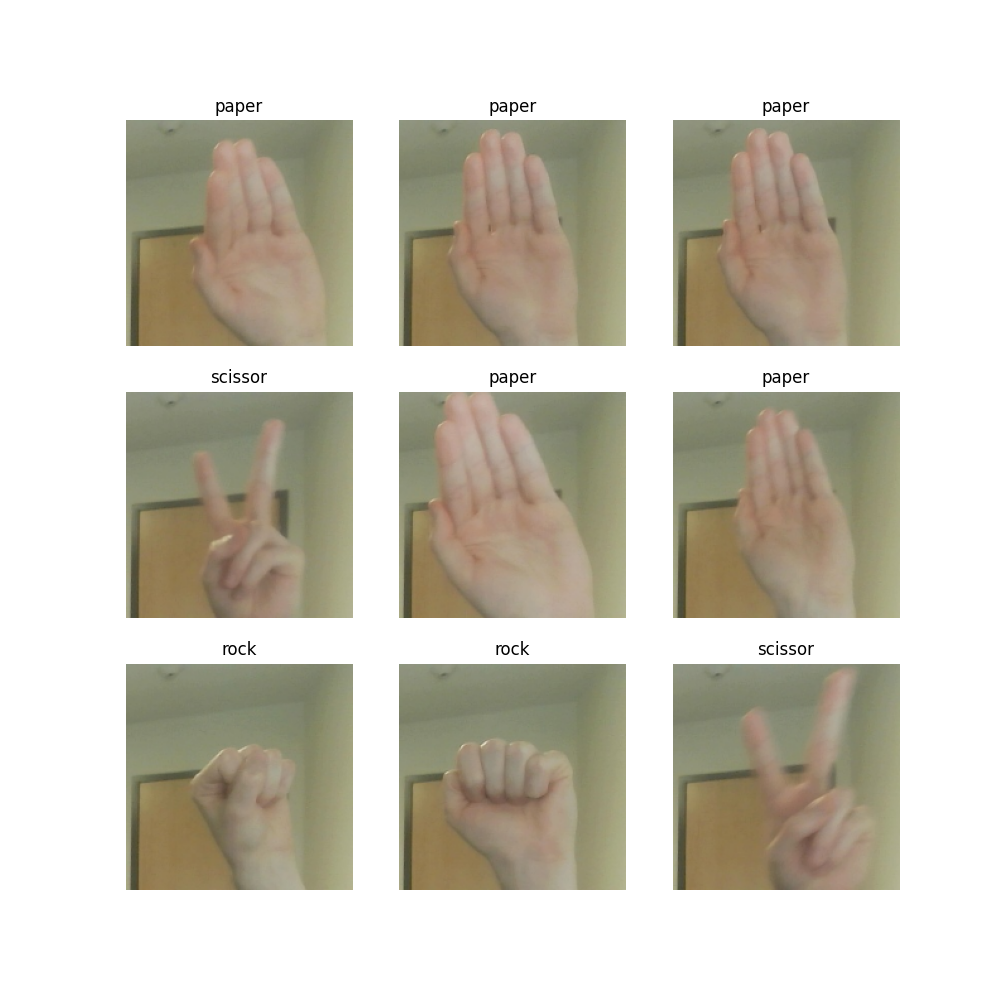
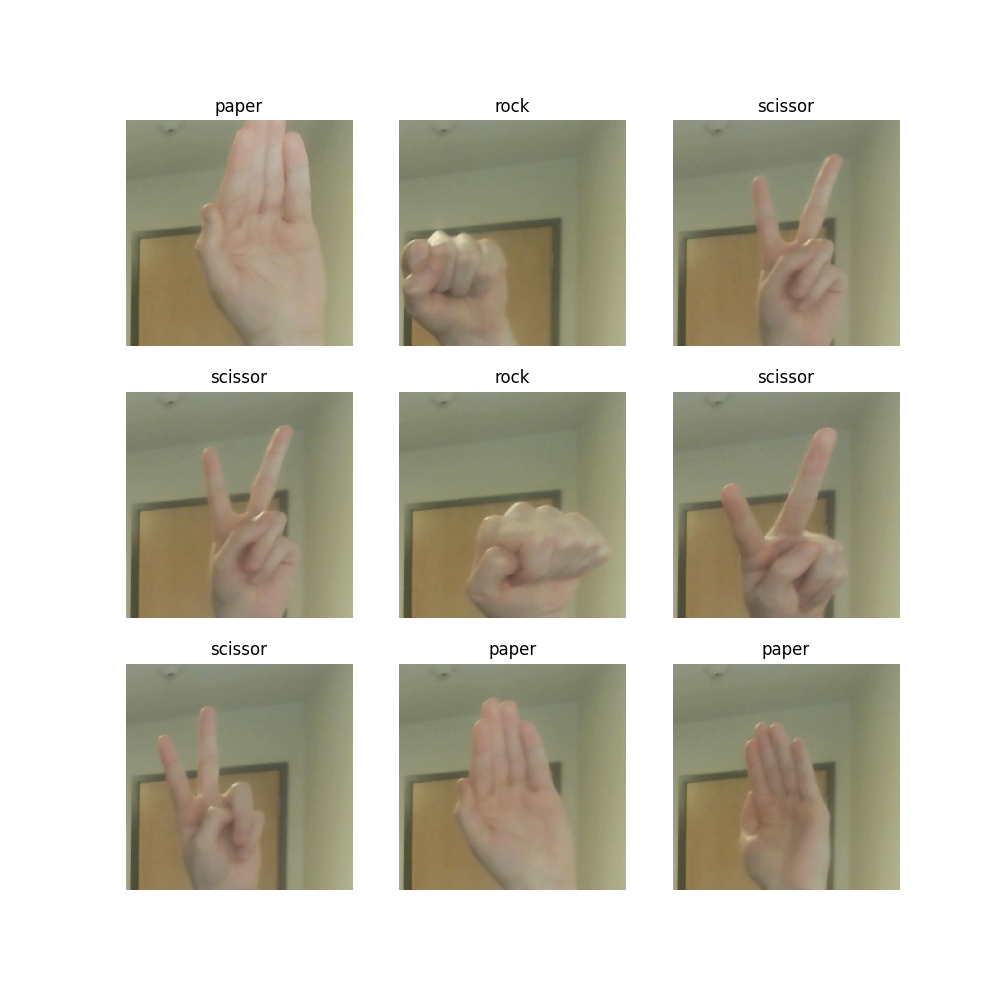
Sus that it had 100% confidence, but it successfully predicted the image I gave it!

diff --git a/model_creation.py b/model_creation.py
@@ -38,6 +38,8 @@ val_ds = tf.keras.preprocessing.image_dataset_from_directory(
 
 # Class name prints (since using "inferred" labels, these should be the subdirectories)
 print(train_ds.class_names)
+class_names = train_ds.class_names
+
 print(val_ds.class_names)
 
 # Configuring dataset for performance
@@ -78,6 +80,23 @@ history = model.fit(
 )
 
 # Visualization on first 9 images in the training set
-figure_creation.save_first_9(train_ds)
+figure_creation.save_first_9(train_ds, class_names)
 # Save results of model accuracies
 figure_creation.save_training_results(history, epochs)
+
+# Testing Classification here, delete in full build:
+hand_path = "paper1.jpg"
+
+img = keras.preprocessing.image.load_img(
+    hand_path, target_size=(180, 180)
+)
+img_array = keras.preprocessing.image.img_to_array(img)
+img_array = tf.expand_dims(img_array, 0)  # Creating a batch
+
+predictions = model.predict(img_array)
+score = tf.nn.softmax(predictions[0])
+
+print(
+    "This image is most likely '{}', with a {:.2f} percent accuracy."
+    .format(class_names[np.argmax(score)], 100 * np.max(score))
+)

diff --git a/classification_test.py b/classification_test.py
@@ -1,0 +1,27 @@
+import os
+import tensorflow as tf
+
+from tensorflow import keras
+from tensorflow.keras import layers
+from tensorflow.keras.models import Sequential
+
+# Creation parameters
+import figure_creation
+
+
+def classification_test(model):
+    hand_path = "/hand_test/paper/paper1"
+
+    img = keras.preprocessing.image.load_img(
+        hand_path, target_size=(180, 180)
+    )
+    img_array = keras.preprocessing.image.img_to_array(img)
+    img_array = tf.expand_dims(img_array, 0)  # Creating a batch
+
+    predictions = model.predict(img_array)
+    score = tf.nn.softmax(predictions[0])
+
+    print(
+        "I'm {} percent sure this is a {:.2f}."
+        .format(100 * np.max(score), class_names[np.argmax(score)])
+    )

diff --git a/figure_creation.py b/figure_creation.py
@@ -1,13 +1,14 @@
 import matplotlib.pyplot as plt
 
 
-def save_first_9(train):
+def save_first_9(train, class_names):
     plt.figure(figsize=(10, 10))
     for images, labels in train.take(1):
         for i in range(9):
             ax = plt.subplot(3, 3, i + 1)
             plt.imshow(images[i].numpy().astype("uint8"))
-            plt.title(train.class_names[labels[i]])
+            # plt.title(train.class_names[labels[i]])
+            plt.title(class_names[labels[i]])
             plt.axis("off")
 
     plt.savefig("First 9 Images.png")
